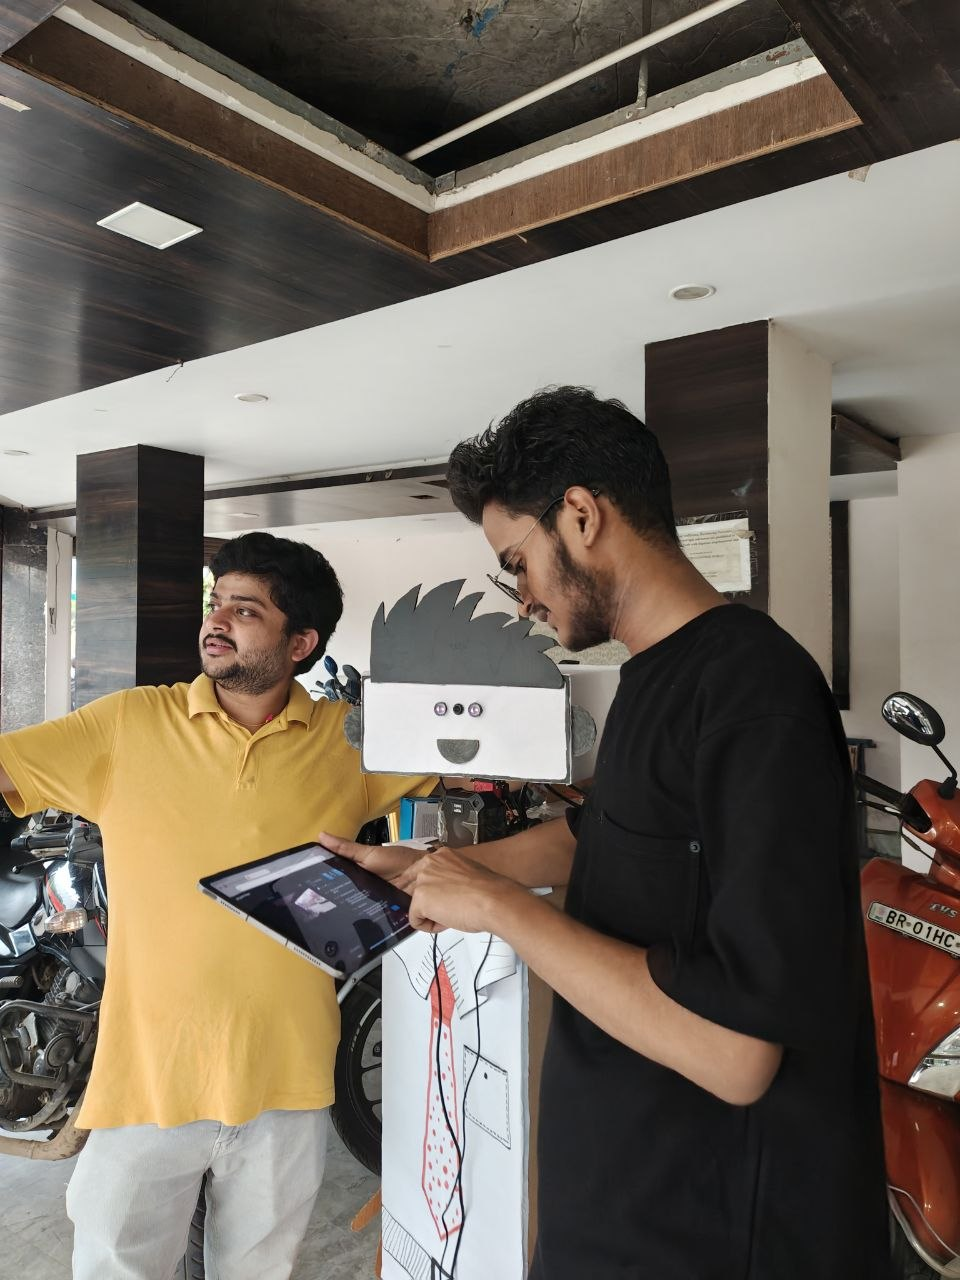
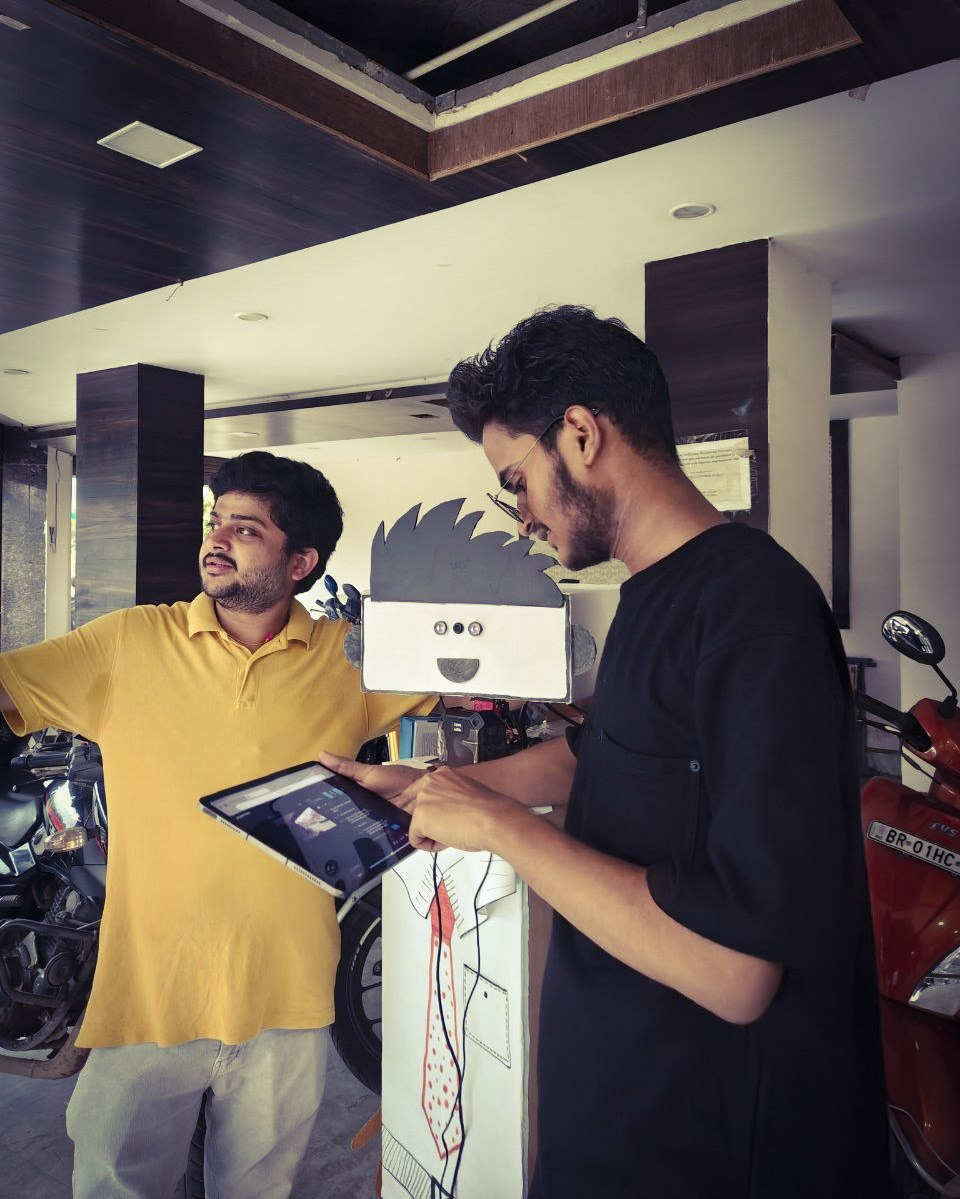
docs: add a wiring diagram, and unpark the left elbow
The hardware section described the build but never showed how it goes together,
so a reader had to infer the whole power path from a photo of the PCA9685.

The diagram is hand-authored SVG rather than Mermaid - a schematic needs
labelled pins, colour-coded rails and a legend, which boxes-and-arrows cannot
express. Light by default with a prefers-color-scheme block, so it reads in
either GitHub theme and degrades to light if a renderer ignores the query. It
shows the Pi header pin-for-pin (1/3/5/6 to VCC/SDA/SCL/GND), the SMPS going
straight into the driver's screw terminal, and one servo lead broken out so the
three wires in a channel are obvious.

The split worth showing: the Pi never carries servo current. Four jumpers give
the driver logic power and I2C and nothing else; every amp comes from the SMPS.
The two meet at the driver's ground, and have to, or the PWM has no reference.

Also fixes the left elbow, which did not move anywhere - web UI, browser demo or
gestures. config.json had ch4 in park_channels, which pins a channel to neutral
on the assumption it is a continuous-rotation servo that cannot hold an angle.
It isn't one: the parts list is all positional 20 kg and 40 kg digital servos.
With the park removed, arms goes back to [[1,2],[3,4]] and both elbows articulate.

Parts list folded into a <details>: Rs 16,899, with the Pi, camera, mic and
speaker noted as already owned, and the two step-down converters noted as bought
but unused.

diff --git a/README.md b/README.md
@@ -208,23 +208,50 @@ schema, the system prompt and the validation all follow.
 
 ## Hardware
 
-| Part | Notes |
-|---|---|
-| Raspberry Pi | I²C enabled on bus 1 |
-| PCA9685 16-channel PWM board | at `0x40`, separate supply on the V+ rail |
-| 5 × Deao digital servos (20 kg / 40 kg) | DC 4.8–7.4 V |
-| 5 V 40 A SMPS | servos draw far more than the Pi can supply |
-| CSI camera | mounted at the neck |
-| USB microphone | any ALSA capture device |
-| Bluetooth speaker | classic A2DP, paired and trusted once |
-| Cardboard, glue, marker pens | the chassis |
+<div align="center">
+<img src="docs/media/wiring.svg" alt="Wiring diagram: a 5 V 40 A SMPS feeds the PCA9685 screw terminal directly; the Raspberry Pi supplies logic and I2C over four jumpers from pins 1, 3, 5 and 6; the driver fans three-wire leads out to five servos" width="880">
+</div>
+
+The split that matters: **the Pi never carries servo current.** Four jumpers from its
+header (pins 1, 3, 5, 6) give the PCA9685 logic power and I²C, and that is all they do.
+Every amp the servos draw comes from the SMPS, straight into the driver's screw terminal
+with nothing in between. The two meet at the driver's ground — and they have to, or the
+PWM has no reference and the servos twitch.
 
 Channels: `0` head pan · `1`/`2` right shoulder + elbow · `3`/`4` left shoulder + elbow.
 The arms are flat panels hinged at the top corners of the torso, so they lift forward
 and up — there is no sideways travel.
 
-A CCPM servo tester is worth having to find each servo's real travel before wiring, so
-`min_pulse` / `max_pulse` can be narrowed if a servo buzzes at the extremes.
+<details>
+<summary><b>Full parts list</b> — what was bought, and what it cost</summary>
+
+<br>
+
+| Part | Category | Spec |
+|---|---|---|
+| Digital servo motor | Motor | 20 kg load — head, both elbows |
+| Digital servo motor | Motor | 40 kg load — both shoulders |
+| SMPS | Power | 5 V 40 A — feeds the driver directly |
+| PCA9685 servo driver | Driver | 16-channel PWM, I²C `0x40` |
+| Servo tester | Tool | CCPM — find each servo's real travel before wiring |
+| Servo mount brackets | Chassis | multi-purpose and U type |
+| 6 mm coupler | Chassis | shaft coupling |
+| M3 × 20 mm brass hex spacers | Chassis | standoffs |
+| M3 × 60 mm brass hex spacers | Chassis | standoffs |
+| Screws, nuts | Chassis | assorted |
+| Jumper wire | Wiring | I²C and signal |
+| Glue gun | Tool | assembly |
+
+**₹16,899 for the lot.** The Raspberry Pi, CSI camera, USB microphone and Bluetooth
+speaker were already to hand and aren't in that figure. The chassis is cardboard boxes,
+glue and marker pens. A pair of step-down converters was bought early on and ended up
+unused — the SMPS drives the servos at 5 V directly.
+
+A servo tester earns its place: run each servo through its range before it is bolted in,
+then narrow `min_pulse` / `max_pulse` in `config.json` for any that buzz or strain at the
+extremes.
+
+</details>
 
 ---
 
